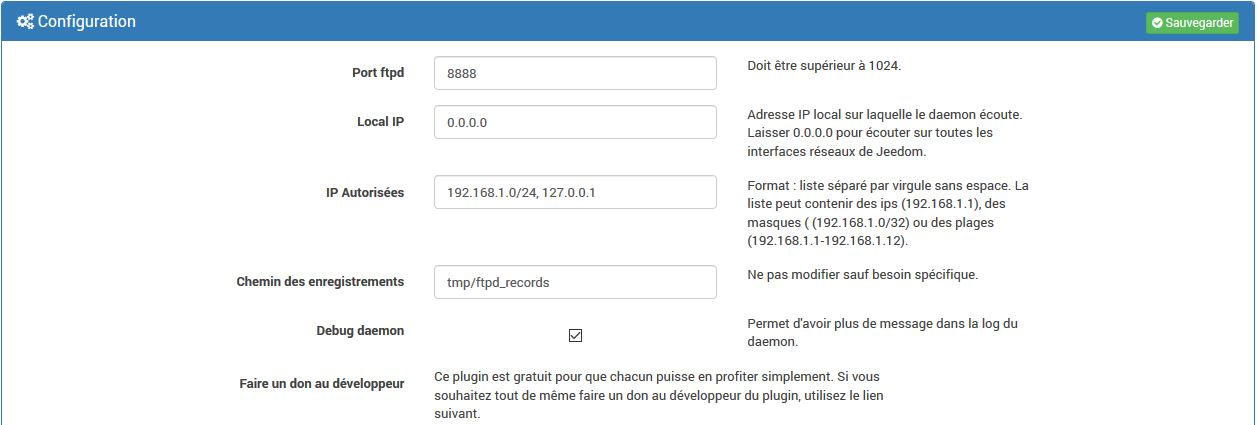
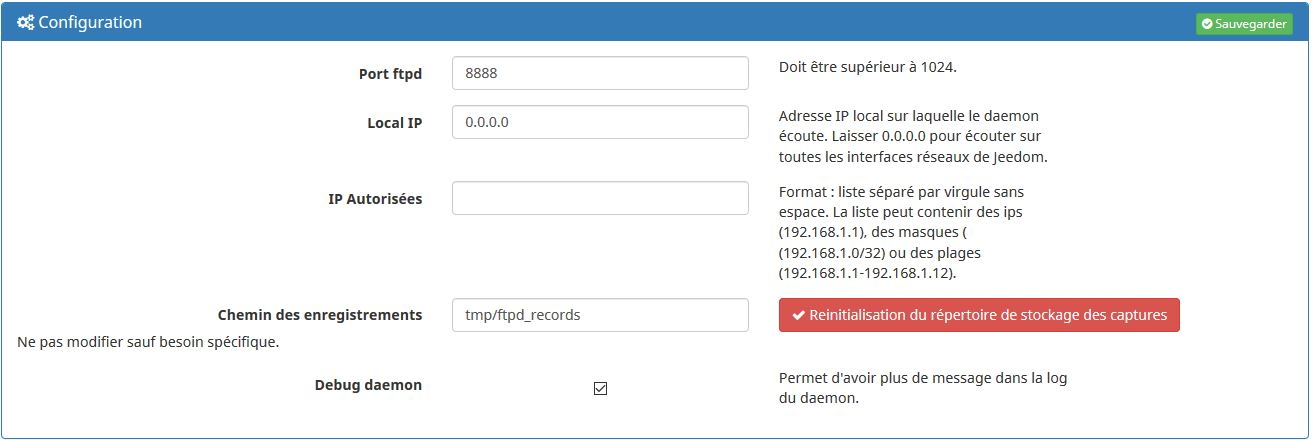
Ajout d'un bouton pour réinitialiser le répertoire de stockage des images

diff --git a/desktop/js/ftpd.js b/desktop/js/ftpd.js
@@ -80,3 +80,12 @@ $('.eqLogicDetect').on('click', function() {
 		}
     });
 });
+
+  $('#bt_resetDir').on('click',function(){
+  		bootbox.confirm('{{Etes-vous sûr de vouloir forcer la reinitialisation du réperoire de stockage des captures ?}}', function (result) {
+  			if (result) {
+  				$('#recordDirFtpd').value('');
+  				savePluginConfig();
+  			}
+  		});
+  	});

diff --git a/plugin_info/configuration.php b/plugin_info/configuration.php
@@ -53,7 +53,10 @@ if (!isConnect('admin')) {
     <div class="form-group">
         <label class="col-lg-4 control-label">{{Chemin des enregistrements}}</label>
         <div class="col-lg-3">
-            <input class="configKey form-control" data-l1key="recordDir"/>
+            <input class="configKey form-control" data-l1key="recordDir" id="recordDirFtpd"/>
+        </div>
+        <div class="col-lg-3">
+			<a class="btn btn-danger" id="bt_resetDir"><i class="fa fa-check"></i> {{Reinitialisation du répertoire de stockage des captures}}</a>
         </div>
         <div class="col-lg-3">
 			Ne pas modifier sauf besoin spécifique.
